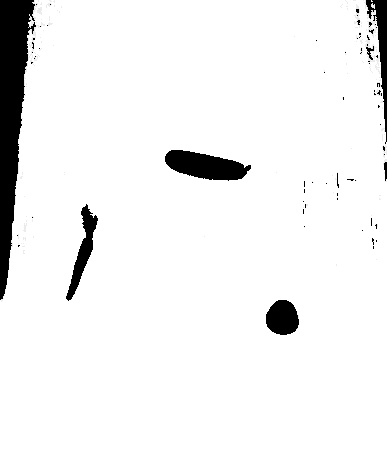
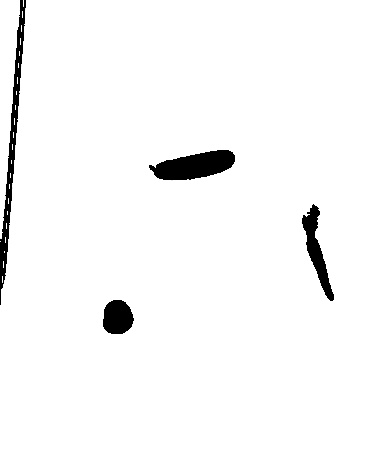
code v1 first fully funcitonal commit

diff --git a/trainObjClassifier_ge.py b/trainObjClassifier_ge.py
@@ -14,7 +14,6 @@ import pandas as pd
 from sklearn.preprocessing import StandardScaler
 import matplotlib.pyplot as plt
 
-import makeInference
 import pickle
 
 import os
@@ -23,7 +22,11 @@ import cv2 as cv
 import time
 from sklearn.model_selection import train_test_split
 
-isTrain = True
+##ccustom imports
+import getRecipe
+import makeInference
+
+isTrain = False
 
 
 
@@ -212,11 +215,12 @@ if isTrain == True:
 
 if isTrain == False:
     vidCapHandle = makeInference.initVidCap(camNum=1)
+    prevIngredientsDict = {}
     
     while True:
         
-        
-        testImg = makeInference.getFrame(vidCapHandle,mirror=False)
+#        ret_val, testImg = vidCapHandle.read()
+        testImg = makeInference.getFrame(vidCapHandle,mirror=True)
    
         listOfObjArr,objects,rectangles = makeInference.getObjectsFromTestImg(testImg)
         
@@ -231,7 +235,16 @@ if isTrain == False:
             
             
             makeInference.drawBoxesAndText(testImg,objects, rectangles,Labels)
-        
+            
+            
+            ##recipr code
+#            currIngredientsDict = makeInference.enumerateObjects(Labels)
+#            
+#            if prevIngredientsDict != currIngredientsDict:
+#                topRecipe,topRecipeSummary = getRecipe.getSuggestedRecipe(currIngredientsDict)
+#            
+#            makeInference.putTextWrap(testImg,topRecipe,(50,50))
+            
         cv.imshow("Tracking", testImg)
     
         

diff --git a/makeInference.py b/makeInference.py
@@ -16,9 +16,9 @@ CLS_MAPPING_DICT = {'apple':0,'carrot':1,'cucumber':2}
 
 
 
-def enumerateObjects(Label):
+def enumerateObjects(Label,classMappingDict = CLS_MAPPING_DICT):
     
-    reverseMappingDict = {value:key for key,value in CLS_MAPPING_DICT.items()}
+    reverseMappingDict = {value:key for key,value in classMappingDict.items()}
     enumeratedObjs = col.Counter(Label)
     enumeratedObjs ={reverseMappingDict[key]:value for  key,value in enumeratedObjs.items() if value != 0}
     
@@ -158,8 +158,8 @@ if __name__ == '__main__':
     x1 = 143
     x2 = 530
     
-    img = cv.imread('./imageCaptures/AllTrails_1.jpg')
-    
+    img = cv.imread('./imageCaptures/TestImgsAll_9.jpg')
+   
     
     listOfObjArr,objects,rectangles = getObjectsFromTestImg(img) ##o are the objects you need Natish
     

diff --git a/localize.py b/localize.py
@@ -168,7 +168,7 @@ def localize(frame): ##IMG : String of file path
     
     
     
-    #frame = cv2.cvtColor(IMG, cv2.COLOR_BGR2GRAY)
+    frame = cv2.cvtColor(frame, cv2.COLOR_BGR2GRAY)
     #frame = cv2.imread(IMG, 0)
 
     frame = frame[y1:y2, x1:x2] ##crop that bitch
